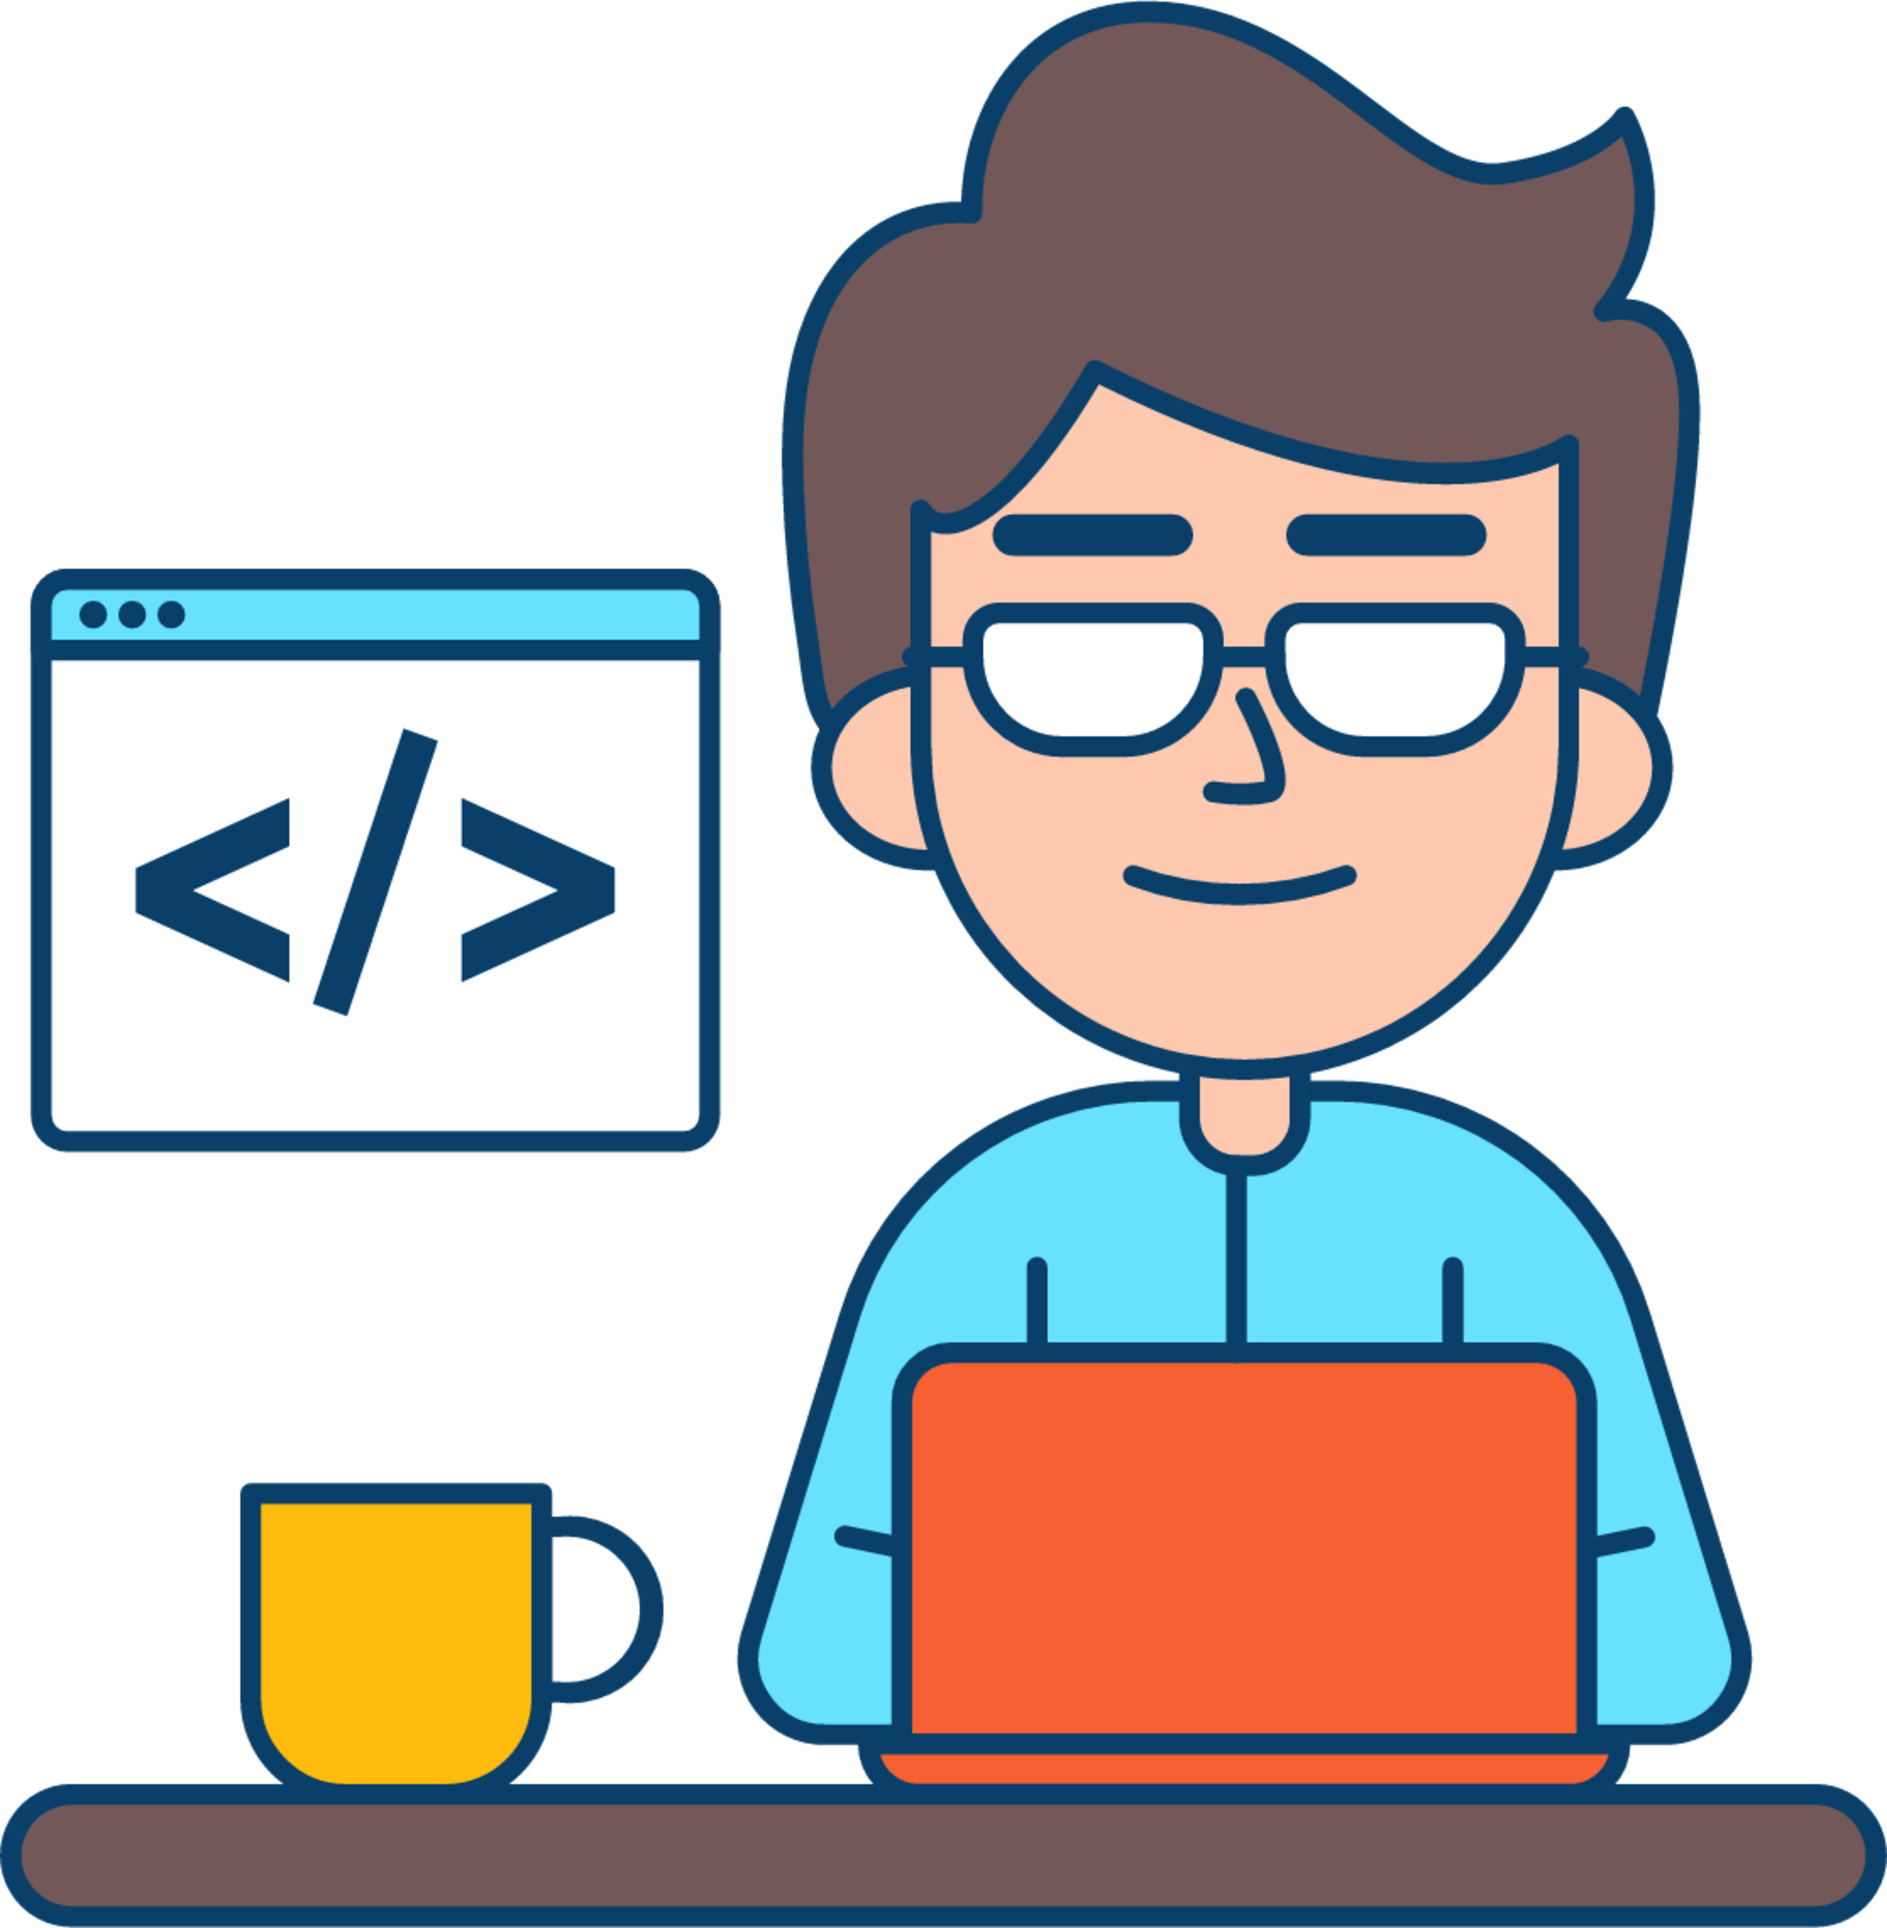
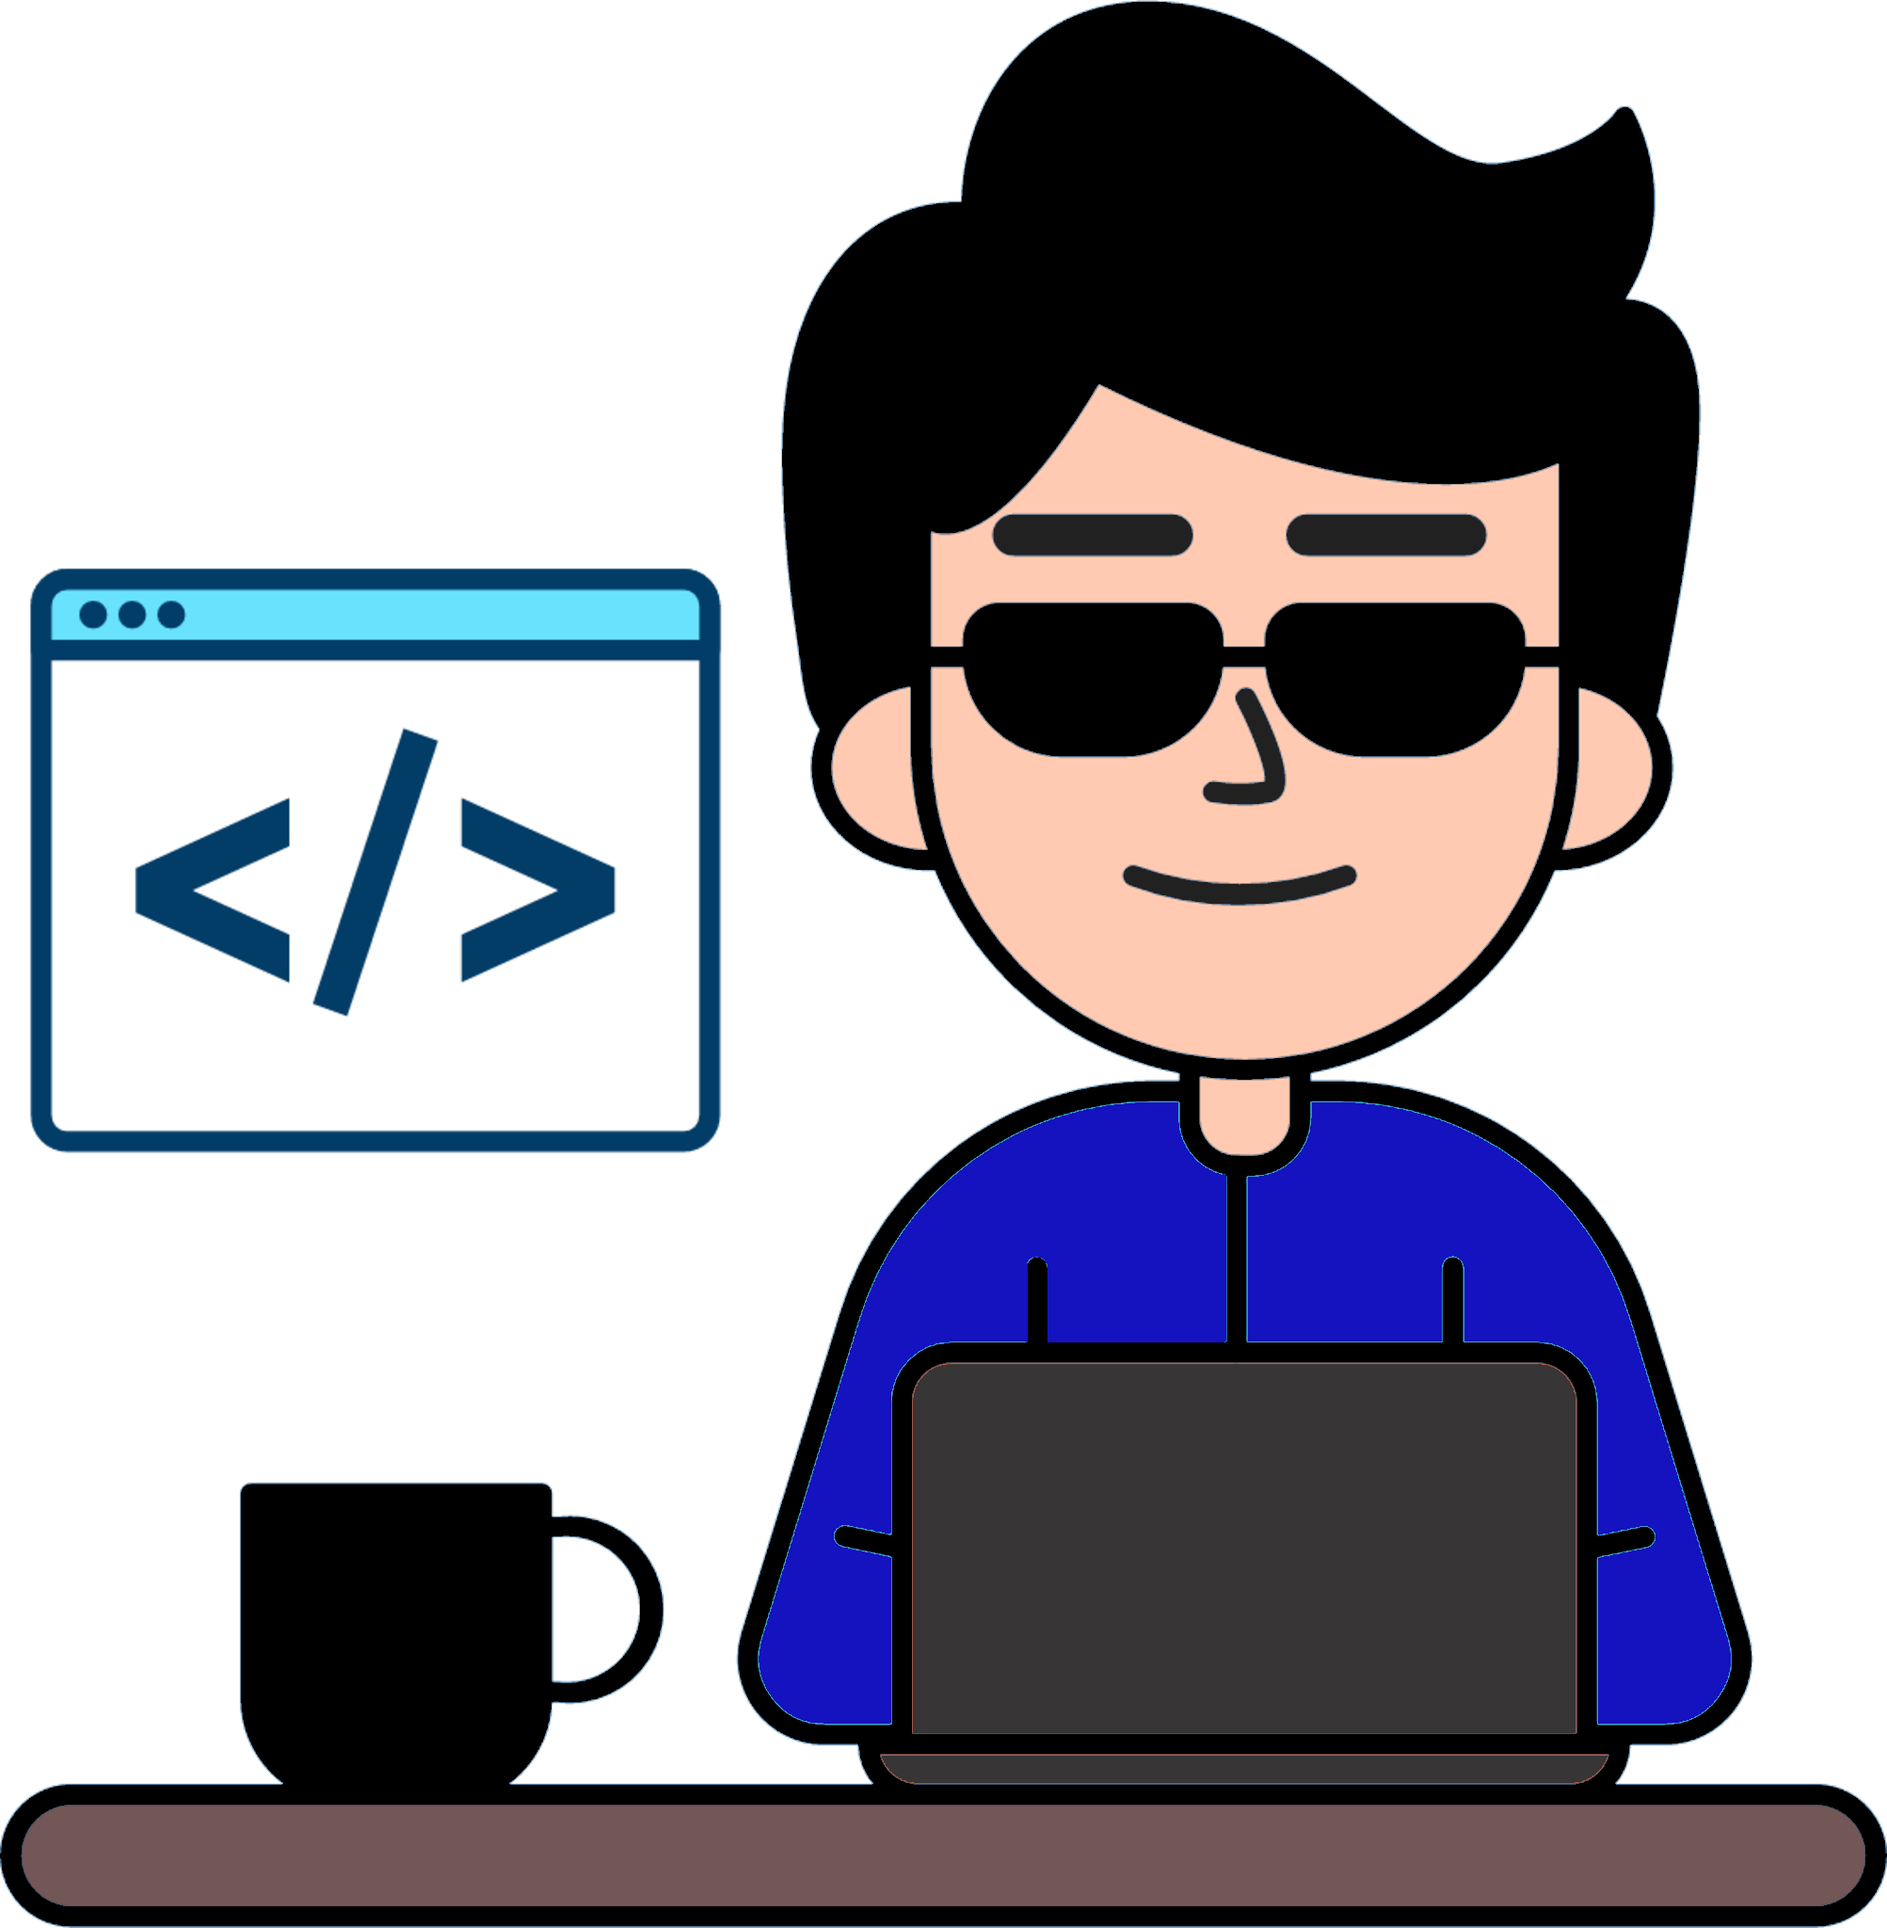
Alteração de Layout e responsividade

diff --git a/style.css b/style.css
@@ -9,6 +9,8 @@ body {
   background-color: #fff;
 }
 
+/* ESTILIZAÇÃO DA BARRA DE NAVEGAÇÃO */
+
 nav {
   display: flex;
   align-items: center;
@@ -50,6 +52,7 @@ li {
   transition: 0.5s;
 }
 
+/* ESTILIZAÇÃO DO HOME */
 .home {
   display: flex;
   align-items: center;
@@ -149,30 +152,66 @@ li {
   background-color: rgb(7, 37, 211);
 }
 
-/* ESTILIZAÇÃO DOS PROJETOS */
+/* ESTILIZAÇÃO DOS PROJETOS - PÁGINAS */
 
-.projetos {
+.projetos1 {
   background: #202020;
-  width: 95vw;
+  width: 75vw;
+  margin: auto;
+  margin-bottom: 40px;
+  border-radius: 100px;
+  padding: 70px;
+  box-shadow: rgba(0, 0, 0, 0.25) 0px 54px 55px, rgba(0, 0, 0, 0.12) 0px -12px 30px, rgba(0, 0, 0, 0.12) 0px 4px 6px, rgba(0, 0, 0, 0.17) 0px 12px 13px, rgba(0, 0, 0, 0.09) 0px -3px 5px;
+}
+
+.projetos1 h2 {
+  color: white;
+  font-size: 75px;
+  text-align: center;
+  -webkit-text-stroke: 0.5px #000000;
+  text-shadow: 2px 3px 4px black;
+}
+
+.projetos1 h3 {
+  color: white;
+  font-size: 30px;
+  text-align: center;
+  -webkit-text-stroke: 0.3px #000000;
+  text-shadow: 2px 3px 4px black;
+}
+
+/* ESTILIZAÇÃO DOS PROJETOS - FERRAMENTAS */
+
+.projetos2 {
+  background: #202020;
+  width: 50vw;
   margin: auto;
   margin-bottom: 40px;
   border-radius: 100px;
   padding: 80px;
-  box-shadow: rgba(0, 0, 0, 0.17) 0px -23px 25px 0px inset, rgba(0, 0, 0, 0.15) 0px -36px 30px 0px inset, rgba(0, 0, 0, 0.1) 0px -79px 40px 0px inset, rgba(0, 0, 0, 0.06) 0px 2px 1px, rgba(0, 0, 0, 0.09) 0px 4px 2px, rgba(0, 0, 0, 0.09) 0px 8px 4px, rgba(0, 0, 0, 0.09) 0px 16px 8px, rgba(0, 0, 0, 0.09) 0px 32px 16px;
+  box-shadow: rgba(0, 0, 0, 0.3) 0px 19px 38px, rgba(0, 0, 0, 0.22) 0px 15px 12px;
 }
 
-.projetos h2 {
+.projetos2 h2 {
   color: white;
   font-size: 75px;
   text-align: center;
-  -webkit-text-stroke: 2px #000000;
+  -webkit-text-stroke: 0.5px #000000;
+  text-shadow: 2px 3px 4px black;
+}
+
+.projetos2 h3 {
+  color: white;
+  font-size: 30px;
+  text-align: center;
+  -webkit-text-stroke: 0.3px #000000;
   text-shadow: 2px 3px 4px black;
 }
 
 .card-projetos {
   display: flex;
   justify-content: center;
-  margin-top: 80px;
+  margin-top: 60px;
   gap: 25px;
 }
 
@@ -184,12 +223,12 @@ li {
   width: 335px;
   border-radius: 20px;
   text-align: center;
-  transition: .5s ease-in;
   padding: 20px;
+  transition: all .5s ease-in;
 }
 
 .card:hover {
-  transform: translateY(-10px);
+  transform: translateY(-10px) scale(1.05);
   box-shadow: 0 0 10px #1962b3;
 }
 
@@ -270,4 +309,132 @@ footer p {
 .social a:hover {
   transform: scale(1.3);
   box-shadow: 0 0 10px rgba(206, 214, 219, 0.5);
+}
+
+/* RESPONSIVIDADE PARA TELAS EM GERAL DE COMPUTADOR */
+
+@media (max-width: 1500px) {
+
+  .card1 p {
+    font-size: 14px;
+  }
+
+}
+
+@media (max-width: 1464px) {
+
+  .card2 p {
+    font-size: 14px;
+  }
+
+}
+
+@media (max-width: 1348px) {
+
+  .home img {
+    margin-left: 50px;
+  }
+
+}
+
+@media (max-width: 1273px) {
+
+  .home img {
+    height: 70vh;
+    width: 50vw;
+  }
+
+  .card5 h5 {
+    font-size: 20px;
+  }
+
+}
+
+@media (max-width: 1190px) {
+
+  .about {
+    justify-content: center;
+  }
+
+  .about div img {
+    width: 30vw;
+    height: 50vh;
+  }
+
+  .about div h2 {
+    font-size: 60px;
+  }
+
+}
+
+@media (max-width: 1131px) {
+
+  .card1 p {
+    margin-top: 10px;
+    margin-bottom: 30px;
+  }
+
+  .card2 p {
+    margin-top: 10px;
+    margin-bottom: 30px;
+  }
+
+  .card4 p {
+    margin-top: 10px;
+    margin-bottom: 30px;
+  }
+
+  .card5 h5 {
+    font-size: 18px;
+  }
+
+  .card5 p {
+    font-size: 14px;
+  }
+
+  .card5 p {
+    margin-top: 10px;
+    margin-bottom: 40px;
+  }
+
+}
+
+@media (max-width: 1070px) {
+
+  .home-texto {
+    margin-left: -50px;
+  }
+
+  .home div img {
+    height: 60vh;
+  }
+
+  .about div p {
+    margin-bottom: 30px;
+  }
+
+  .card5 img {
+    width: 5rem;
+    height: 5rem;
+  }
+
+  .card5 h5 {
+    margin-top: 10px;
+  }
+}
+
+@media (max-width: 1025px) {
+
+  .projetos2 {
+    width: 60vw;
+  }
+
+  .card5 h5 {
+    font-size: 22px;
+  }
+
+  .card5 p {
+    font-size: 16px;
+  }
+
 }

diff --git a/index.html b/index.html
@@ -18,8 +18,9 @@
     <link rel="stylesheet" href="https://unpkg.com/aos@next/dist/aos.css" />
     <title>Portfólio | Thales Almeida - Web Developer Front-End</title>
   </head>
-
   <body>
+
+    <!-- BARRA DE NAVEGAÇÃO -->
     <nav>
       <h2 class="portfolio">Portfó<span>lio</span></h2>
       <ul>
@@ -30,9 +31,10 @@
       </ul>
     </nav>
 
+    <!-- HOME COM NOME, FUNÇÃO E IMAGEM -->
     <main id="meu-nome">
       <div class="home">
-        <div>
+        <div class="home-texto">
           <h1>Thales <span>Almeida</span></h1>
           <h3>Desenvolvedor Web | Front-End</h3>
         </div>
@@ -43,6 +45,7 @@
       </div>
     </main>
 
+    <!-- SOBRE MIM -->
     <section data-aos="fade-right"
     data-aos-offset="300"
     data-aos-easing="ease-in-sine" class="about" id="sobre">
@@ -63,11 +66,13 @@
       </div>
     </section>
 
-    <div class="projetos" id="projetos-id" data-aos="zoom-out">
-      <h2>Principais Projetos</h2>
+    <!-- PROJETOS DE PÁGINAS -->
+    <div class="projetos1" id="projetos-id" data-aos="zoom-out">
+      <h2>Projetos</h2>
+      <h3>Páginas</h3>
 
       <div class="card-projetos">
-        <div class="card">
+        <div class="card card1">
           <img src="./img/foco.png" />
           <h5>Foco MGSB</h5>
           <p>
@@ -77,7 +82,7 @@
           <a>Ver projeto</a>
         </div>
 
-        <div class="card">
+        <div class="card card2">
           <img src="./img/starbucks.png" />
           <h5>Starbucks</h5>
           <p>
@@ -87,21 +92,31 @@
           <a>Ver projeto</a>
         </div>
 
-        <div class="card">
+        <div class="card card3">
           <img src="./img/login.webp" />
           <h5>Tela de Login</h5>
           <p>Tela de login responsivo, feito em HTML e CSS.</p>
           <a>Ver projeto</a>
         </div>
 
-        <div class="card">
+      </div>
+    </div>
+
+    <!-- PROJETOS DE FERRAMENTAS -->
+    <div class="projetos2" id="projetos-id" data-aos="zoom-out">
+      <h2>Projetos</h2>
+      <h3>Ferramentas</h3>
+
+      <div class="card-projetos">
+        
+        <div class="card card4">
           <img src="./img/conversor.png" />
           <h5>Conversor</h5>
           <p>Conversor de Real para Dolar feito em HTML, CSS e Javascript.</p>
           <a>Ver projeto</a>
         </div>
 
-        <div class="card">
+        <div class="card card5">
           <img src="./img/cadeado.png" />
           <h5>Gerador de Senha</h5>
           <p>
@@ -110,9 +125,11 @@
           </p>
           <a>Ver projeto</a>
         </div>
+
       </div>
     </div>
 
+    <!-- FOOTER COM INFORMAÇÕES PARA CONTATO -->
     <footer id="contatos">
       <h5>Para mais informações</h5>
       <p>Entre em contato:</p>
